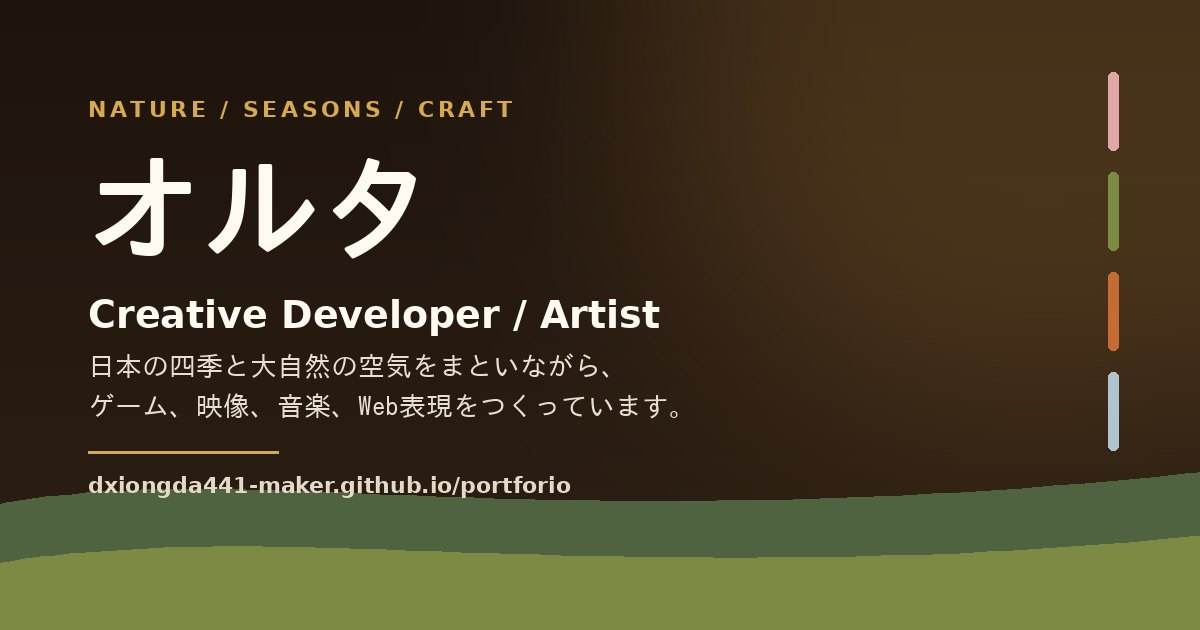
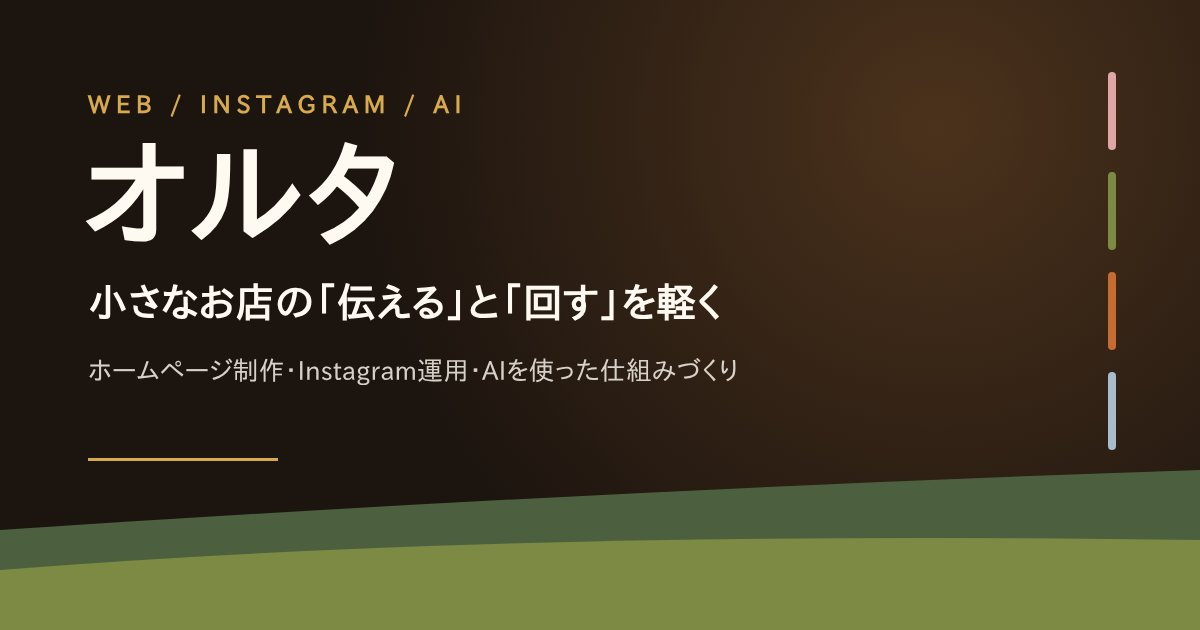
Refocus the top page on freelance work
Replace the artist framing with what Alter offers to small shops, send
visitors to the service page, lead the works with the cafe landing page,
add a web-production capability, turn the Story section into a short
career section, and redraw the OGP cover. Add a CSP that forbids scripts.

Claude-Session: https://claude.ai/code/session_01JePrrH5KehTqc9cXzdEqrt

diff --git a/index.html b/index.html
@@ -3,10 +3,15 @@
   <head>
     <meta charset="utf-8" />
     <meta name="viewport" content="width=device-width, initial-scale=1" />
-    <title>オルタ | Creative Developer / Artist</title>
+    <meta
+      http-equiv="Content-Security-Policy"
+      content="default-src 'self'; img-src 'self' https://images.unsplash.com data:; style-src 'unsafe-inline'; script-src 'none'; object-src 'none'; base-uri 'none'; form-action 'none'"
+    />
+    <meta name="referrer" content="strict-origin-when-cross-origin" />
+    <title>オルタ | 小さなお店のWeb制作・Instagram運用・AI活用</title>
     <meta
       name="description"
-      content="日本の四季と大自然の空気をまといながら、ゲーム、映像、音楽、Web表現をつくるオルタのポートフォリオ。実際に操作できるPWAと学習アプリ、AIアニメの制作ケーススタディを公開しています。"
+      content="小さなお店の「伝える」と「回す」を、WebとAIで軽くする。ホームページ制作、Instagram運用、AIを使った仕組みづくりを請け負うオルタのサイトです。料金と見本、実際に操作できる作品を公開しています。"
     />
     <link rel="canonical" href="https://dxiongda441-maker.github.io/portforio/" />
     <link rel="preconnect" href="https://images.unsplash.com" crossorigin />
@@ -16,22 +21,22 @@
     <link rel="apple-touch-icon" href="./assets/apple-touch-icon.png" />
     <meta property="og:type" content="website" />
     <meta property="og:locale" content="ja_JP" />
-    <meta property="og:site_name" content="オルタ Portfolio" />
-    <meta property="og:title" content="オルタ | Creative Developer / Artist" />
+    <meta property="og:site_name" content="オルタ" />
+    <meta property="og:title" content="オルタ | 小さなお店のWeb制作・Instagram運用・AI活用" />
     <meta
       property="og:description"
-      content="日本の四季と大自然の空気をまといながら、ゲーム、映像、音楽、Web表現をつくっています。操作できるPWA・学習アプリとAIアニメの制作ケーススタディを公開中。"
+      content="ホームページ制作・Instagram運用・AIを使った仕組みづくりを、企画から公開まで1人で。料金と見本、操作できる作品を公開しています。"
     />
     <meta property="og:url" content="https://dxiongda441-maker.github.io/portforio/" />
     <meta property="og:image" content="https://dxiongda441-maker.github.io/portforio/assets/og-cover.jpg" />
     <meta property="og:image:width" content="1200" />
     <meta property="og:image:height" content="630" />
-    <meta property="og:image:alt" content="オルタ - Creative Developer / Artist のポートフォリオ表紙" />
+    <meta property="og:image:alt" content="オルタ — 小さなお店のホームページ制作・Instagram運用・AIを使った仕組みづくり" />
     <meta name="twitter:card" content="summary_large_image" />
-    <meta name="twitter:title" content="オルタ | Creative Developer / Artist" />
+    <meta name="twitter:title" content="オルタ | 小さなお店のWeb制作・Instagram運用・AI活用" />
     <meta
       name="twitter:description"
-      content="日本の四季と大自然の空気をまといながら、ゲーム、映像、音楽、Web表現をつくっています。操作できるPWA・学習アプリとAIアニメの制作ケーススタディを公開中。"
+      content="ホームページ制作・Instagram運用・AIを使った仕組みづくりを、企画から公開まで1人で。料金と見本、操作できる作品を公開しています。"
     />
     <meta name="twitter:image" content="https://dxiongda441-maker.github.io/portforio/assets/og-cover.jpg" />
     <style>
@@ -256,6 +261,16 @@
         color: rgba(255, 250, 241, 0.88);
         font-size: clamp(16px, 1.7vw, 20px);
         line-height: 2;
+      }
+
+      .text-link {
+        border-bottom: 1px solid currentColor;
+        color: var(--gold);
+        font-weight: 700;
+      }
+
+      .text-link:hover {
+        color: #fffaf1;
       }
 
       .season-section {
@@ -530,7 +545,11 @@
         max-width: 760px;
       }
 
-      .story-copy p:last-child {
+      .story-copy h2 {
+        margin-bottom: 28px;
+      }
+
+      .story-copy p {
         font-size: clamp(16px, 1.8vw, 21px);
         line-height: 1.9;
       }
@@ -643,13 +662,13 @@
   </head>
   <body>
     <header class="site-header">
-      <a class="brand" href="#home">Seasonal Portfolio</a>
+      <a class="brand" href="#home">オルタ</a>
       <nav>
-        <a href="#about">About</a>
-        <a href="#works">Works</a>
-        <a href="#skills">Skills</a>
-        <a href="#story">Story</a>
-        <a href="#contact">Contact</a>
+        <a href="./service/">サービス</a>
+        <a href="#works">作品</a>
+        <a href="#skills">できること</a>
+        <a href="#career">本業</a>
+        <a href="./service/#contact">相談する</a>
       </nav>
     </header>
 
@@ -658,13 +677,13 @@
         <div class="hero-media"></div>
         <div class="hero-shade"></div>
         <div class="hero-content">
-          <p class="kicker">Nature / Seasons / Craft</p>
+          <p class="kicker">Web / Instagram / AI</p>
           <h1>オルタ</h1>
-          <p class="role">Creative Developer / Artist</p>
-          <p class="lead">日本の四季と大自然の空気をまといながら、ゲーム、映像、音楽、Web表現をつくっています。</p>
+          <p class="role">小さなお店の「伝える」と「回す」を軽くする</p>
+          <p class="lead">ホームページ制作、Instagram運用、AIを使った仕組みづくりを、企画から公開まで1人で請け負っています。</p>
           <div class="actions">
-            <a class="button primary" href="#works">作品を見る</a>
-            <a class="button secondary" href="#contact">問い合わせ</a>
+            <a class="button primary" href="./service/">サービスと料金を見る</a>
+            <a class="button secondary" href="#works">作品を見る</a>
           </div>
         </div>
       </section>
@@ -674,11 +693,12 @@
         <div class="season-inner split">
           <div>
             <p class="section-label">About / Spring</p>
-            <h2>自然の景色と、手触りのある表現をつなぐ。</h2>
+            <h2>作って終わりにせず、続けられる形で渡す。</h2>
           </div>
           <div class="copy">
-            <p>山、海、森、雪、桜、紅葉。日本の季節が持つ移ろいを、デジタル表現の中に落とし込むことを大切にしています。</p>
-            <p>このサイトは、迫力あるビジュアルを前面に出しながら、作品や考え方を静かに深く見せるポートフォリオとして設計しています。</p>
+            <p>会社員として社内のデータ管理と業務の効率化に取り組みながら、個人でお店のホームページ制作とInstagram運用を請け負っています。</p>
+            <p>企画・文章・デザイン・実装までを、AI（Claude・Codex）と組んで1人で行います。外注を重ねないぶん、早く・安くお届けできます。</p>
+            <p><a class="text-link" href="./service/">メニュー・料金・見本を見る →</a></p>
           </div>
         </div>
       </section>
@@ -689,18 +709,28 @@
           <div class="section-heading works-heading">
             <div>
               <p class="section-label">Works / Summer</p>
-              <h2>制作物と実績</h2>
+              <h2>作品</h2>
             </div>
-            <p>企画、情報設計、実装までをCodexとともに形にした、実際に操作できるアプリと制作ケーススタディ。</p>
+            <p>企画、情報設計、実装までをAI（Claude・Codex）と組んで1人で形にした、実際に操作できるWebページとアプリ。</p>
           </div>
           <div class="works-grid">
+            <article class="project-card">
+              <a class="project-media" href="./projects/cafe-lp/" target="_blank" rel="noreferrer" aria-label="琥珀 KOHAKU COFFEEのLPを開く">
+                <picture>
+                  <source srcset="./assets/portfolio/cafe-lp.webp" type="image/webp" />
+                  <img src="./assets/portfolio/cafe-lp.jpg" alt="カフェ「琥珀」のランディングページのファーストビュー" loading="lazy" decoding="async" width="1280" height="800" />
+                </picture>
+                <span class="project-number">01</span><span class="project-status">Live Demo</span>
+              </a>
+              <div class="project-body"><div class="project-meta"><span>Landing Page / Cafe</span><span>2026</span></div><h3>琥珀 KOHAKU COFFEE</h3><p class="project-description">売れるLPの型に沿って組み立てた、架空のスペシャルティコーヒー店のランディングページ。</p><div class="project-tags"><span>Copywriting</span><span>SVG Art</span><span>Responsive</span></div><a class="project-link" href="./projects/cafe-lp/" target="_blank" rel="noreferrer">作品を開く <span>↗</span></a></div>
+            </article>
             <article class="project-card">
               <a class="project-media" href="./projects/reading-shelf/" target="_blank" rel="noreferrer" aria-label="Reading Shelfを開く">
                 <picture>
                   <source srcset="./assets/portfolio/reading-shelf.webp" type="image/webp" />
                   <img src="./assets/portfolio/reading-shelf.jpg" alt="Reading Shelfの読書棚画面" loading="lazy" decoding="async" width="1280" height="800" />
                 </picture>
-                <span class="project-number">01</span><span class="project-status">Live Demo</span>
+                <span class="project-number">02</span><span class="project-status">Live Demo</span>
               </a>
               <div class="project-body"><div class="project-meta"><span>App / Reading</span><span>2026</span></div><h3>Reading Shelf</h3><p class="project-description">読んだ本、読む前の期待、進捗を一つの本棚に整理する読書記録PWA。</p><div class="project-tags"><span>PWA</span><span>Local Storage</span><span>Responsive</span></div><a class="project-link" href="./projects/reading-shelf/" target="_blank" rel="noreferrer">作品を開く <span>↗</span></a></div>
             </article>
@@ -710,7 +740,7 @@
                   <source srcset="./assets/portfolio/wabisabi.webp" type="image/webp" />
                   <img src="./assets/portfolio/wabisabi.jpg" alt="三分録の録音画面" loading="lazy" decoding="async" width="1280" height="800" />
                 </picture>
-                <span class="project-number">02</span><span class="project-status">Live Demo</span>
+                <span class="project-number">03</span><span class="project-status">Live Demo</span>
               </a>
               <div class="project-body"><div class="project-meta"><span>App / Voice</span><span>2026</span></div><h3>三分録</h3><p class="project-description">毎日3分の録音を習慣化し、記録からX・Substack向けの発信案までつなぐ。</p><div class="project-tags"><span>Audio</span><span>Speech</span><span>PWA</span></div><a class="project-link" href="./projects/wabisabi/" target="_blank" rel="noreferrer">作品を開く <span>↗</span></a></div>
             </article>
@@ -720,7 +750,7 @@
                   <source srcset="./assets/portfolio/levellog.webp" type="image/webp" />
                   <img src="./assets/portfolio/levellog.jpg" alt="LevelLogのクエスト管理画面" loading="lazy" decoding="async" width="1280" height="800" />
                 </picture>
-                <span class="project-number">03</span><span class="project-status">Live Demo</span>
+                <span class="project-number">04</span><span class="project-status">Live Demo</span>
               </a>
               <div class="project-body"><div class="project-meta"><span>App / Productivity</span><span>2026</span></div><h3>LevelLog</h3><p class="project-description">行動をEXPに変換し、レベル、時間価値、週次レビューを可視化する習慣アプリ。</p><div class="project-tags"><span>Gamification</span><span>Local Storage</span><span>PWA</span></div><a class="project-link" href="./projects/levellog/" target="_blank" rel="noreferrer">作品を開く <span>↗</span></a></div>
             </article>
@@ -730,7 +760,7 @@
                   <source srcset="./assets/portfolio/one-day-one-quote.webp" type="image/webp" />
                   <img src="./assets/portfolio/one-day-one-quote.jpg" alt="1日1名言の日替わり画面" loading="lazy" decoding="async" width="1280" height="800" />
                 </picture>
-                <span class="project-number">04</span><span class="project-status">Live Demo</span>
+                <span class="project-number">05</span><span class="project-status">Live Demo</span>
               </a>
               <div class="project-body"><div class="project-meta"><span>App / Daily</span><span>2026</span></div><h3>1日1名言</h3><p class="project-description">日替わりの名言、今日の行動、振り返りを一画面で続けるモバイルPWA。</p><div class="project-tags"><span>Daily Content</span><span>Notifications</span><span>PWA</span></div><a class="project-link" href="./projects/quote/" target="_blank" rel="noreferrer">作品を開く <span>↗</span></a></div>
             </article>
@@ -740,7 +770,7 @@
                   <source srcset="./assets/portfolio/world-country-quiz-cover.webp" type="image/webp" />
                   <img src="./assets/portfolio/world-country-quiz-cover.jpg" alt="地球と国旗を描いた世界の国クイズの表紙" loading="lazy" decoding="async" width="1280" height="800" />
                 </picture>
-                <span class="project-number">05</span><span class="project-status">Live Demo</span>
+                <span class="project-number">06</span><span class="project-status">Live Demo</span>
               </a>
               <div class="project-body"><div class="project-meta"><span>Game / Learning</span><span>2026</span></div><h3>世界の国クイズ</h3><p class="project-description">地図で国を探索し、国旗クイズで知識を確かめるインタラクティブ学習ゲーム。</p><div class="project-tags"><span>Quiz</span><span>SVG Map</span><span>Interactive</span></div><a class="project-link" href="./projects/country-quiz/" target="_blank" rel="noreferrer">作品を開く <span>↗</span></a></div>
             </article>
@@ -750,7 +780,7 @@
                   <source srcset="./assets/portfolio/cat-quiz.webp" type="image/webp" />
                   <img src="./assets/portfolio/cat-quiz.jpg" alt="世界ねこ図鑑クイズのトップ画面" loading="lazy" decoding="async" width="1280" height="800" />
                 </picture>
-                <span class="project-number">06</span><span class="project-status">Live Demo</span>
+                <span class="project-number">07</span><span class="project-status">Live Demo</span>
               </a>
               <div class="project-body"><div class="project-meta"><span>Game / Encyclopedia</span><span>2026</span></div><h3>世界ねこ図鑑クイズ</h3><p class="project-description">36種の猫を写真、生態、地域から学べる図鑑と確認クイズの学習体験。</p><div class="project-tags"><span>Data UI</span><span>Quiz</span><span>Responsive</span></div><a class="project-link" href="./projects/cat-quiz/" target="_blank" rel="noreferrer">作品を開く <span>↗</span></a></div>
             </article>
@@ -760,7 +790,7 @@
                   <source srcset="./assets/portfolio/business-contracts.webp" type="image/webp" />
                   <img src="./assets/portfolio/business-contracts.jpg" alt="ビジネス契約ラーニングの契約一覧画面" loading="lazy" decoding="async" width="1280" height="800" />
                 </picture>
-                <span class="project-number">07</span><span class="project-status">Live Demo</span>
+                <span class="project-number">08</span><span class="project-status">Live Demo</span>
               </a>
               <div class="project-body"><div class="project-meta"><span>App / Learning</span><span>2026</span></div><h3>ビジネス契約ラーニング</h3><p class="project-description">起業、転職、副業で出会う8種類の契約を学び、16問で確認できる学習アプリ。</p><div class="project-tags"><span>Research</span><span>Quiz</span><span>Information Design</span></div><a class="project-link" href="./projects/contracts/" target="_blank" rel="noreferrer">作品を開く <span>↗</span></a></div>
             </article>
@@ -770,7 +800,7 @@
                   <source srcset="./assets/portfolio/money-anime.webp" type="image/webp" />
                   <img src="./assets/portfolio/money-anime.jpg" alt="100円玉が日本の山里から冒険へ出発するAIアニメのキービジュアル" loading="lazy" decoding="async" width="1280" height="800" />
                 </picture>
-                <span class="project-number">08</span><span class="project-status">Case Study</span>
+                <span class="project-number">09</span><span class="project-status">Case Study</span>
               </a>
               <div class="project-body"><div class="project-meta"><span>AI Anime / Production</span><span>2026</span></div><h3>100円が冒険に出た!?</h3><p class="project-description">投資の仕組みを子どもに伝える60秒縦型AIアニメの企画・演出・生成設計。</p><div class="project-tags"><span>Script</span><span>Prompt Design</span><span>Storyboarding</span></div><a class="project-link" href="./projects/money-anime/" target="_blank" rel="noreferrer">ケースを見る <span>↗</span></a></div>
             </article>
@@ -780,7 +810,7 @@
                   <source srcset="./assets/portfolio/security-quest.webp" type="image/webp" />
                   <img src="./assets/portfolio/security-quest.jpg" alt="セキュリティ・クエストの章マップと進行状況の画面" loading="lazy" decoding="async" width="1280" height="800" />
                 </picture>
-                <span class="project-number">09</span><span class="project-status">Live Demo</span>
+                <span class="project-number">10</span><span class="project-status">Live Demo</span>
               </a>
               <div class="project-body"><div class="project-meta"><span>Game / Learning</span><span>2026</span></div><h3>セキュリティ・クエスト</h3><p class="project-description">暗号からクラウド、AI、インシデント対応、法令まで。18章のボス戦で情報セキュリティを体系的に学ぶ学習RPG。</p><div class="project-tags"><span>Game Design</span><span>Quiz</span><span>Security</span></div><a class="project-link" href="./projects/security-quest/" target="_blank" rel="noreferrer">作品を開く <span>↗</span></a></div>
             </article>
@@ -790,19 +820,9 @@
                   <source srcset="./assets/portfolio/family-cards.webp" type="image/webp" />
                   <img src="./assets/portfolio/family-cards.jpg" alt="年末ファミリートランプの10種類のゲーム選択画面" loading="lazy" decoding="async" width="1280" height="800" />
                 </picture>
-                <span class="project-number">10</span><span class="project-status">Live Demo</span>
-              </a>
-              <div class="project-body"><div class="project-meta"><span>Game / Family</span><span>2026</span></div><h3>年末ファミリートランプ</h3><p class="project-description">ババ抜き、大富豪、ポーカーなど10種類を、1台の端末で家族と、またはCPU相手に遊べるトランプゲーム集。</p><div class="project-tags"><span>Card Games</span><span>CPU Opponents</span><span>Pass &amp; Play</span></div><a class="project-link" href="./projects/family-cards/" target="_blank" rel="noreferrer">作品を開く <span>↗</span></a></div>
-            </article>
-            <article class="project-card">
-              <a class="project-media" href="./projects/cafe-lp/" target="_blank" rel="noreferrer" aria-label="琥珀 KOHAKU COFFEEのLPを開く">
-                <picture>
-                  <source srcset="./assets/portfolio/cafe-lp.webp" type="image/webp" />
-                  <img src="./assets/portfolio/cafe-lp.jpg" alt="カフェ「琥珀」のランディングページのファーストビュー" loading="lazy" decoding="async" width="1280" height="800" />
-                </picture>
                 <span class="project-number">11</span><span class="project-status">Live Demo</span>
               </a>
-              <div class="project-body"><div class="project-meta"><span>Landing Page / Cafe</span><span>2026</span></div><h3>琥珀 KOHAKU COFFEE</h3><p class="project-description">売れるLPの型に沿って組み立てた、架空のスペシャルティコーヒー店のランディングページ。</p><div class="project-tags"><span>Copywriting</span><span>SVG Art</span><span>Responsive</span></div><a class="project-link" href="./projects/cafe-lp/" target="_blank" rel="noreferrer">作品を開く <span>↗</span></a></div>
+              <div class="project-body"><div class="project-meta"><span>Game / Family</span><span>2026</span></div><h3>年末ファミリートランプ</h3><p class="project-description">ババ抜き、大富豪、ポーカーなど10種類を、1台の端末で家族と、またはCPU相手に遊べるトランプゲーム集。</p><div class="project-tags"><span>Card Games</span><span>CPU Opponents</span><span>Pass &amp; Play</span></div><a class="project-link" href="./projects/family-cards/" target="_blank" rel="noreferrer">作品を開く <span>↗</span></a></div>
             </article>
           </div>
         </div>
@@ -816,6 +836,14 @@
             <h2>数字ではなく、作ったもので示す。</h2>
           </div>
           <div class="skill-panel glass">
+            <div class="capability">
+              <h3>Web制作 <small>Web &amp; Landing Pages</small></h3>
+              <p>
+                お店の魅力が伝わり、営業日やメニューがすぐ分かるページを、文章から組み立てる。
+                ログイン画面やサーバーのプログラムを持たない、乗っ取られにくい構成で作る。
+                <span class="evidence">琥珀 KOHAKU COFFEE、焼き菓子とコーヒー ことり舎（制作見本）</span>
+              </p>
+            </div>
             <div class="capability">
               <h3>実装 <small>Implementation</small></h3>
               <p>
@@ -843,27 +871,28 @@
               <p>
                 公開して終わりにしない。同一オリジンで複数の PWA が Cache Storage を共有し、
                 互いのキャッシュを削除していた不具合を、キャッシュ名の名前空間化と既存データの移行で解消した。
-                <span class="evidence">全10作品を GitHub Pages で公開・保守中。push でのデプロイまで自動化</span>
+                <span class="evidence">全11作品を公開・保守中。push でのデプロイまで自動化</span>
               </p>
             </div>
             <div class="capability">
               <h3>速度 <small>Pace</small></h3>
               <p>
                 企画から公開まで、1作品あたり数日。作りながら決めて、出してから直す。
-                <span class="evidence">2026年7月〜9月に10作品を公開</span>
+                <span class="evidence">2026年7月〜10月に11作品を公開</span>
               </p>
             </div>
           </div>
         </div>
       </section>
 
-      <section id="story" class="season-section winter">
+      <section id="career" class="season-section winter">
         <div class="season-overlay"></div>
         <div class="season-inner winter-layout">
           <div class="story-copy">
-            <p class="section-label">Story / Philosophy / Winter</p>
-            <h2>速さよりも、長く残る余韻を。</h2>
-            <p>日本の伝統文化が持つ余白、静けさ、素材への敬意。その感覚を、Web、ゲーム、映像、音楽の体験に取り入れます。</p>
+            <p class="section-label">Career / Winter</p>
+            <h2>本業では、業務を仕組みで軽くしています。</h2>
+            <p>製造業の会社で、ノーコードのデータベース（JUST.DB）とBIツール（Power BI）の社内導入を、試験導入の段階から担当しています。</p>
+            <p>あわせて、化学物質の安全データシート（SDS）の作成とリスクアセスメントの実務を扱っています。</p>
           </div>
         </div>
       </section>
@@ -871,19 +900,13 @@
       <section id="contact" class="section contact">
         <div>
           <p class="section-label">Contact</p>
-          <h2>制作の相談やコラボレーションは、GitHubからご連絡ください。</h2>
+          <h2>お仕事のご相談は、サービスページからどうぞ。</h2>
         </div>
         <div class="contact-card">
-          <p class="contact-note">掲載している作品のソースコードと最新の更新は、すべてGitHubで公開しています。</p>
-          <p class="section-label">GitHub</p>
-          <a
-            class="primary-contact"
-            href="https://github.com/dxiongda441-maker"
-            target="_blank"
-            rel="noreferrer"
-            aria-label="GitHubプロフィール dxiongda441-maker を開く"
-          >
-            dxiongda441-maker <span aria-hidden="true">↗</span>
+          <p class="contact-note">メニュー・料金・見本と、ご相談の流れをまとめています。初回の相談は無料です。</p>
+          <p class="section-label">Service</p>
+          <a class="primary-contact" href="./service/#contact" aria-label="サービスと料金、ご相談の窓口を開く">
+            サービスと料金・ご相談 <span aria-hidden="true">→</span>
           </a>
         </div>
       </section>
